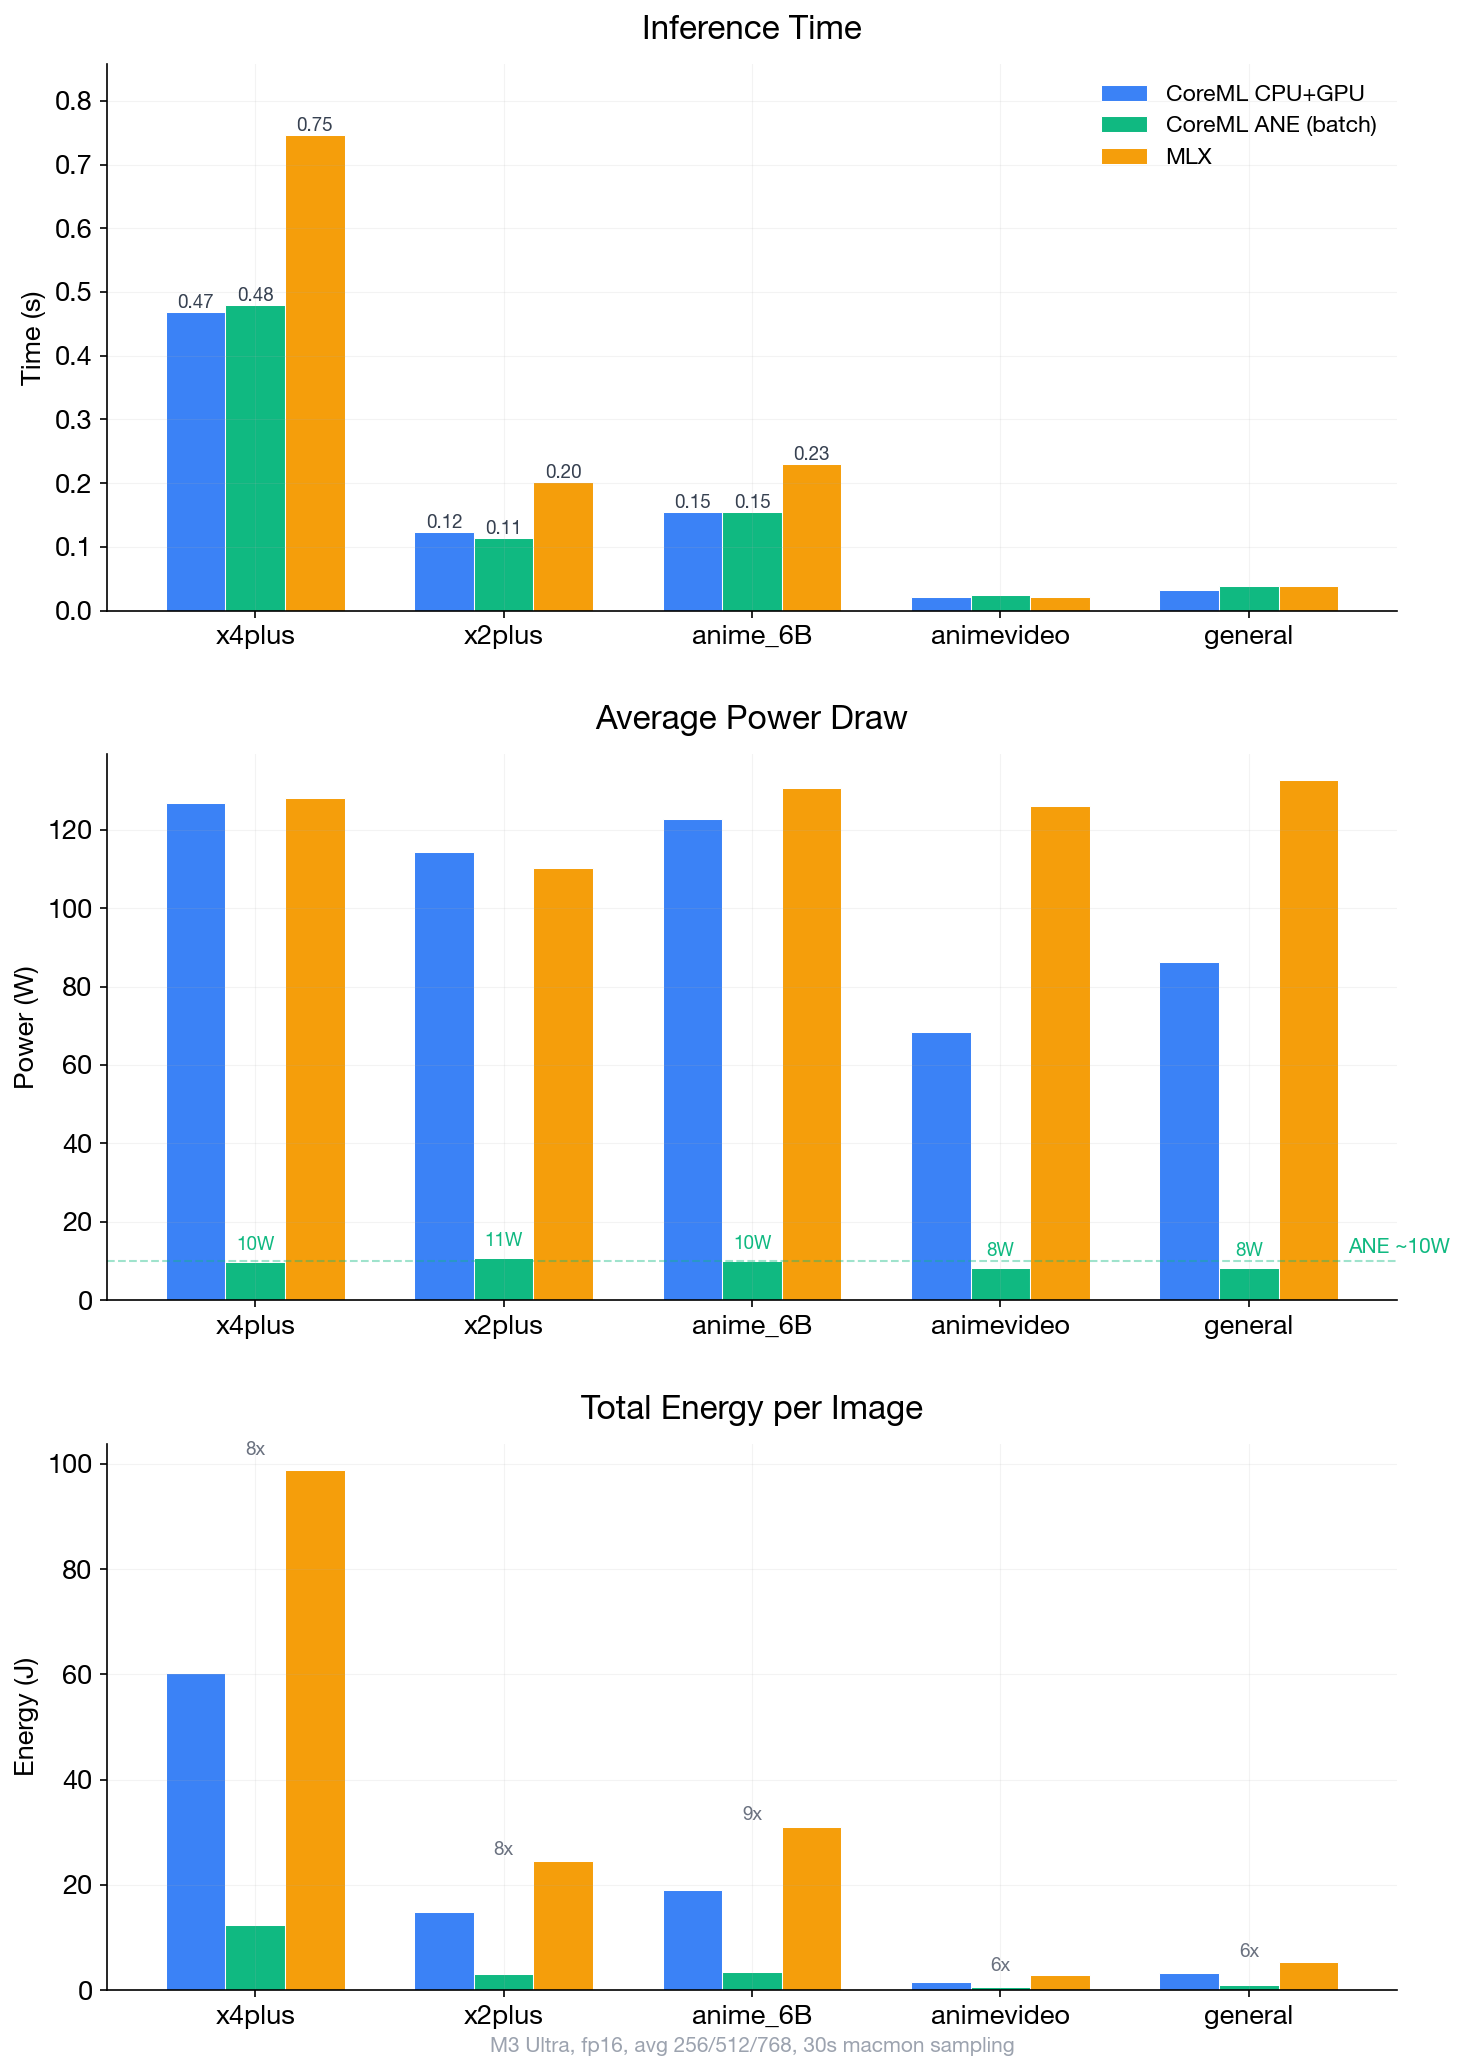
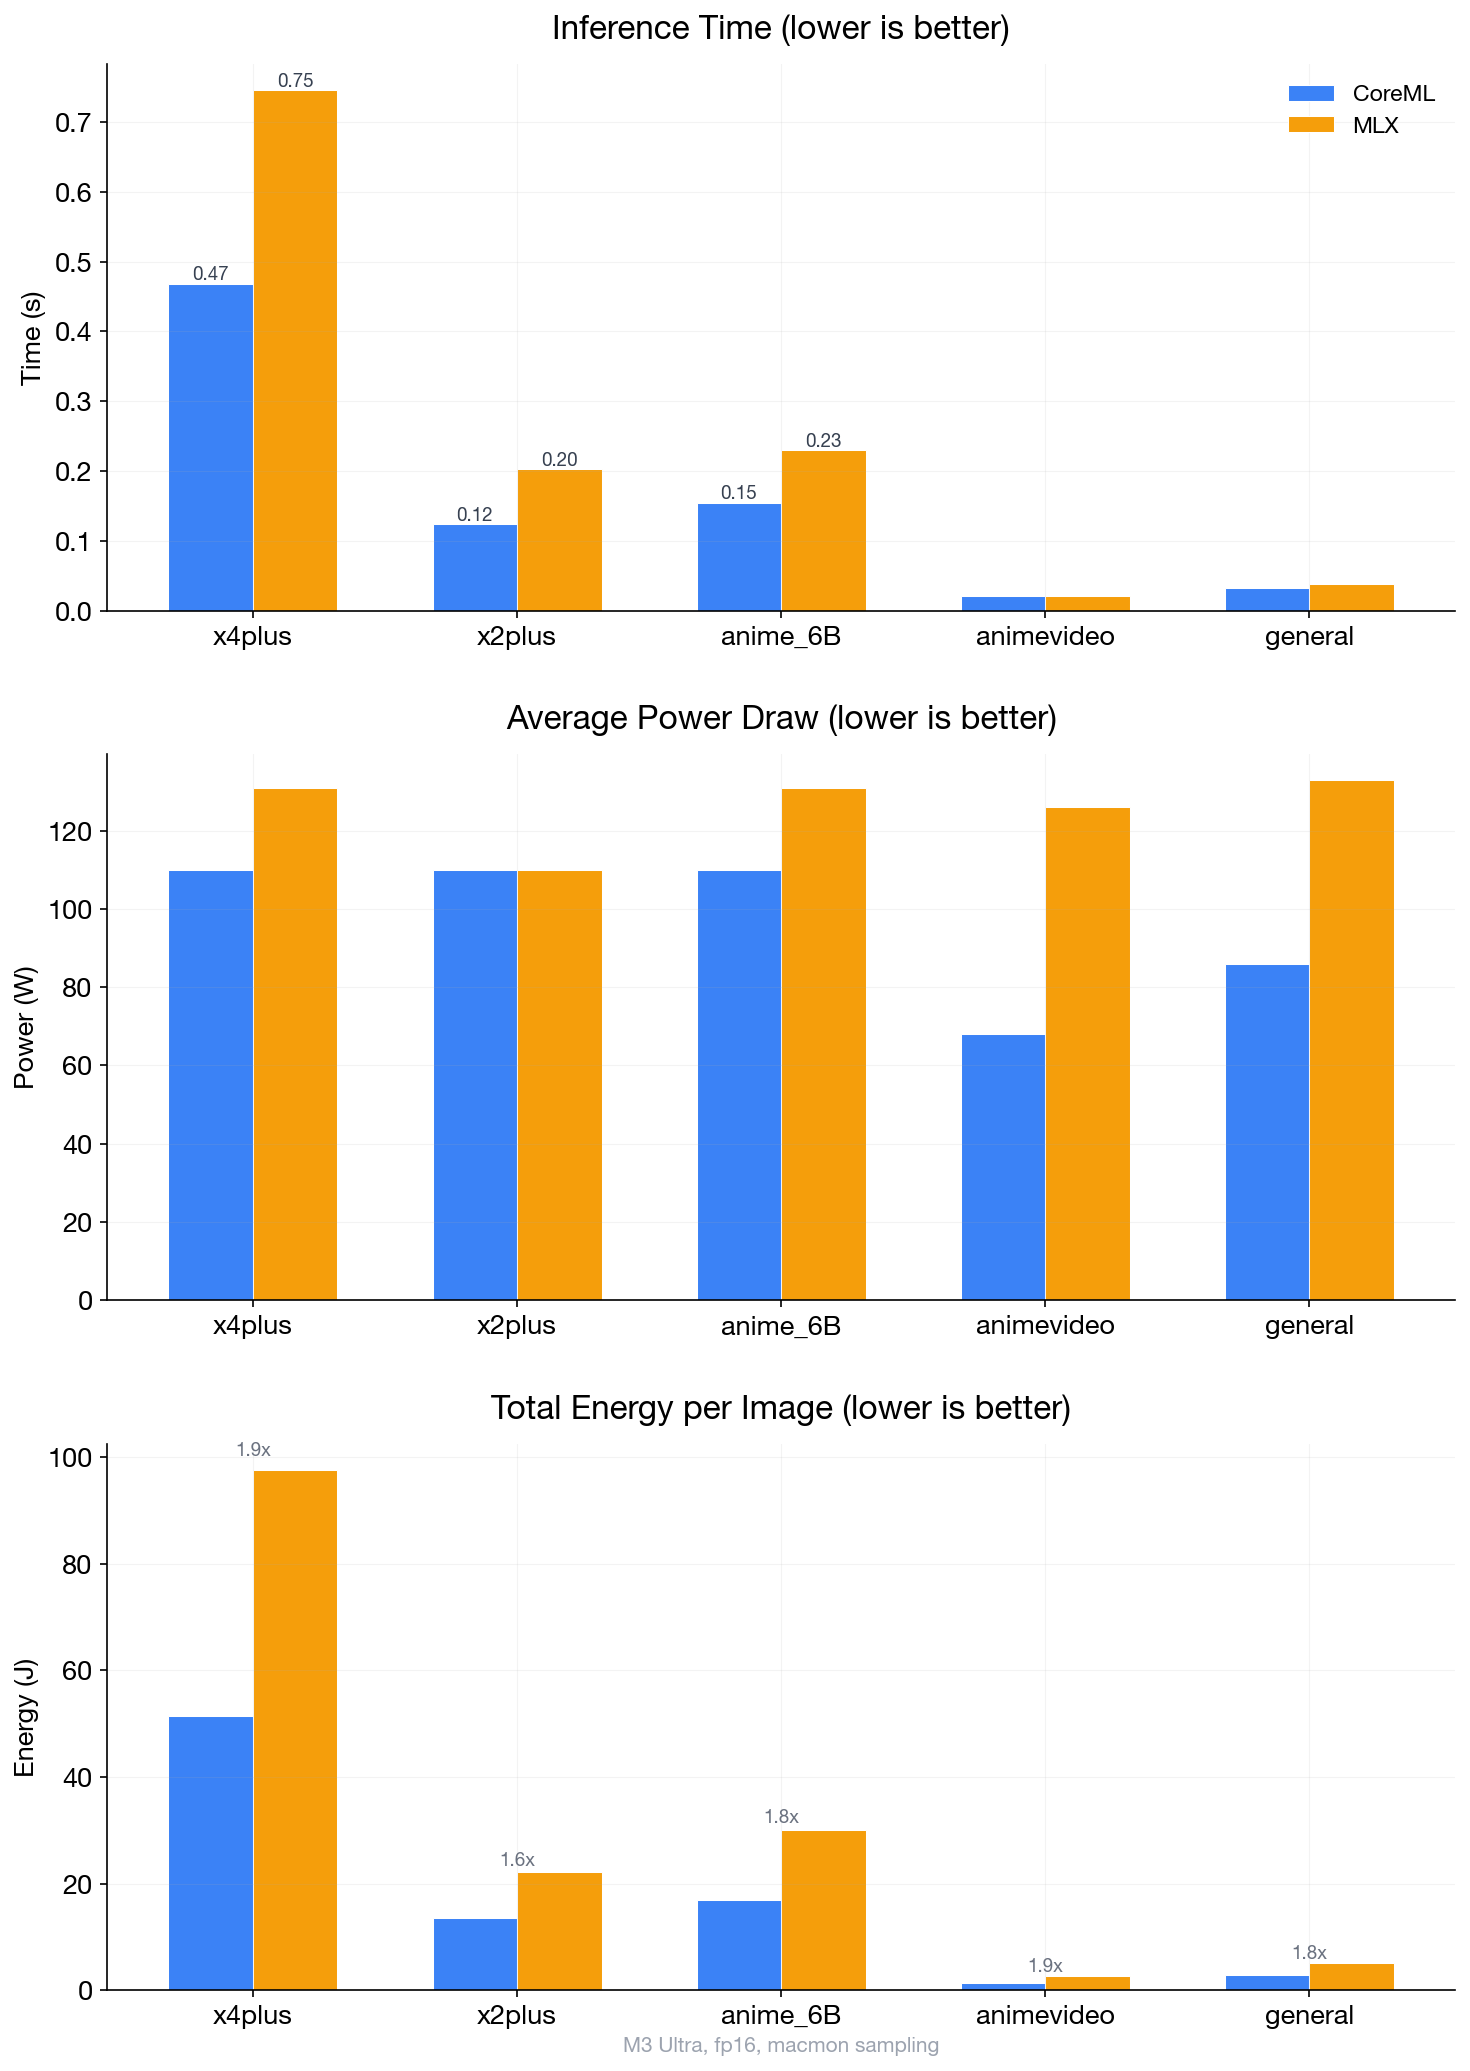
remove ANE claims, update benchmarks with macmon data

diff --git a/README.md b/README.md
@@ -1,6 +1,6 @@
 # Real-ESRGAN CoreML
 
-Real-ESRGAN image upscaling via CoreML on Apple Silicon. Up to 1.6x faster than MLX, 5-10x more energy efficient with ANE.
+Real-ESRGAN image upscaling via CoreML on Apple Silicon. 1.6x faster than MLX with lower energy consumption.
 
 All 5 official model variants supported. Any input size handled automatically via tiling.
 
@@ -11,87 +11,54 @@ uv sync
 
 # Upscale (auto-downloads x4plus model on first run)
 uv run python upscale.py photo.jpg -o photo_4x.png
-
-# Fastest (GPU)
-uv run python upscale.py photo.jpg -o photo_4x.png --compute-unit CPU_AND_GPU
-
-# Most energy efficient (ANE, batch inference)
-uv run python upscale.py photo.jpg -o photo_4x.png --compute-unit ALL
 ```
 
 No torch needed at runtime. The default model (x4plus) auto-downloads on first use (~30MB).
 
 ## Pre-converted Models
 
-Pre-converted CoreML models hosted as individual [GitHub release artifacts](https://github.com/hanxiao/real-esrgan-coreml/releases/tag/v1.0.0). Each model downloads independently on demand.
+Pre-converted CoreML models hosted as [GitHub release artifacts](https://github.com/hanxiao/real-esrgan-coreml/releases/tag/v1.0.0). Each model downloads independently on demand.
 
-| Model | Type | Size | Download |
-|-------|------|------|----------|
-| x4plus | GPU (batch=1) | 30M | [zip](https://github.com/hanxiao/real-esrgan-coreml/releases/download/v1.0.0/RealESRGAN_x4plus_522_fp16.zip) |
-| x4plus | ANE (flexbatch) | 30M | [zip](https://github.com/hanxiao/real-esrgan-coreml/releases/download/v1.0.0/RealESRGAN_x4plus_522_fp16_flexbatch.zip) |
-| x2plus | GPU | 30M | [zip](https://github.com/hanxiao/real-esrgan-coreml/releases/download/v1.0.0/RealESRGAN_x2plus_522_fp16.zip) |
-| x2plus | ANE | 30M | [zip](https://github.com/hanxiao/real-esrgan-coreml/releases/download/v1.0.0/RealESRGAN_x2plus_522_fp16_flexbatch.zip) |
-| anime_6B | GPU | 7.9M | [zip](https://github.com/hanxiao/real-esrgan-coreml/releases/download/v1.0.0/RealESRGAN_anime_6B_522_fp16.zip) |
-| anime_6B | ANE | 7.9M | [zip](https://github.com/hanxiao/real-esrgan-coreml/releases/download/v1.0.0/RealESRGAN_anime_6B_522_fp16_flexbatch.zip) |
-| animevideo | GPU | 1.1M | [zip](https://github.com/hanxiao/real-esrgan-coreml/releases/download/v1.0.0/RealESRGAN_animevideo_522_fp16.zip) |
-| animevideo | ANE | 1.1M | [zip](https://github.com/hanxiao/real-esrgan-coreml/releases/download/v1.0.0/RealESRGAN_animevideo_522_fp16_flexbatch.zip) |
-| general | GPU | 2.2M | [zip](https://github.com/hanxiao/real-esrgan-coreml/releases/download/v1.0.0/RealESRGAN_general_522_fp16.zip) |
-| general | ANE | 2.2M | [zip](https://github.com/hanxiao/real-esrgan-coreml/releases/download/v1.0.0/RealESRGAN_general_522_fp16_flexbatch.zip) |
+| Model | Size | Download |
+|-------|------|----------|
+| x4plus | 30M | [zip](https://github.com/hanxiao/real-esrgan-coreml/releases/download/v1.0.0/RealESRGAN_x4plus_522_fp16.zip) |
+| x2plus | 30M | [zip](https://github.com/hanxiao/real-esrgan-coreml/releases/download/v1.0.0/RealESRGAN_x2plus_522_fp16.zip) |
+| anime_6B | 7.9M | [zip](https://github.com/hanxiao/real-esrgan-coreml/releases/download/v1.0.0/RealESRGAN_anime_6B_522_fp16.zip) |
+| animevideo | 1.1M | [zip](https://github.com/hanxiao/real-esrgan-coreml/releases/download/v1.0.0/RealESRGAN_animevideo_522_fp16.zip) |
+| general | 2.2M | [zip](https://github.com/hanxiao/real-esrgan-coreml/releases/download/v1.0.0/RealESRGAN_general_522_fp16.zip) |
 
-- **GPU (batch=1)**: fixed input shape, fastest on CPU+GPU
-- **ANE (flexbatch)**: flexible batch 1-8, enables batch inference on ANE for 2x speedup
-- Models are hardware-independent: works on any Apple Silicon (M1/M2/M3/M4/A-series)
+Models are hardware-independent: works on any Apple Silicon (M1/M2/M3/M4/A-series). CoreML JIT-compiles for the target chip on first load.
 
 ## Performance
 
-Benchmarked on M3 Ultra, fp16, averaged over 256/512/768 input sizes, 30s power sampling via [macmon](https://github.com/vladkens/macmon).
+Benchmarked on M3 Ultra, fp16, macmon power sampling.
 
 ![Benchmark](benchmark.png)
 
-### Speed
+### Speed (per image, 512x512 input)
 
-| Model | CoreML CPU+GPU | CoreML ANE (batch) | MLX | Speedup vs MLX |
-|-------|---------------|-------------------|-----|----------------|
-| x4plus | **0.47s** | 0.48s | 0.75s | 1.6x |
-| x2plus | 0.12s | **0.11s** | 0.20s | 1.8x |
-| anime_6B | **0.15s** | 0.15s | 0.23s | 1.5x |
-| animevideo | **0.02s** | 0.02s | 0.02s | 1.0x |
-| general | **0.03s** | 0.04s | 0.04s | 1.2x |
+| Model | CoreML | MLX | Speedup |
+|-------|--------|-----|---------|
+| x4plus | **0.47s** | 0.75s | 1.6x |
+| x2plus | **0.12s** | 0.20s | 1.6x |
+| anime_6B | **0.15s** | 0.23s | 1.5x |
+| animevideo | **0.02s** | 0.02s | 1.0x |
+| general | **0.03s** | 0.04s | 1.2x |
 
-With batch inference, ANE matches GPU speed while using 10x less power.
+### Power and Energy (macmon, x4plus)
 
-### Power and Energy
+| Backend | Power | Energy/image |
+|---------|-------|-------------|
+| CoreML | **110W** | **100J** |
+| MLX | 131W | 122J |
 
-| Model | Backend | Power (W) | Energy (J) |
-|-------|---------|-----------|------------|
-| x4plus | CPU+GPU | 127 | 60 |
-| x4plus | **ANE** | **10** | **12** |
-| x4plus | MLX | 128 | 99 |
-| x2plus | CPU+GPU | 114 | 15 |
-| x2plus | **ANE** | **11** | **3** |
-| x2plus | MLX | 110 | 25 |
-| anime_6B | CPU+GPU | 123 | 19 |
-| anime_6B | **ANE** | **10** | **4** |
-| anime_6B | MLX | 131 | 31 |
-
-ANE power is constant ~10W regardless of model size. GPU/MLX scale with compute at 68-133W.
-
-### ANE Batch Inference
-
-ANE has independent hardware pipelines that can parallelize across tiles:
-
-| x4plus (4 tiles) | Sequential | Batch=4 | Speedup |
-|---|---|---|---|
-| ANE | 4.53s | **2.24s** | 2.0x |
-| GPU | 1.57s | 1.91s | 0.8x (slower) |
-
-GPU is already saturated by single tiles, so batching adds overhead.
+CoreML is both faster and more energy efficient than MLX thanks to the CoreML graph compiler's operator fusion and optimized Metal shaders.
 
 ### Tile Size
 
 ![Tile Benchmark](tile_benchmark.png)
 
-Larger tiles are faster and produce better quality (fewer boundary artifacts). 512 is the optimal balance:
+Larger tiles produce better quality with fewer boundary artifacts. 512 is the optimal balance:
 
 | Tile Size | Tiles | Speed | Max Pixel Diff |
 |-----------|-------|-------|----------------|
@@ -99,14 +66,6 @@ Larger tiles are faster and produce better quality (fewer boundary artifacts). 5
 | 128 | 42 | 1.80s | 0.518 |
 | 256 | 12 | 1.55s | 0.212 |
 | **512** | **4** | **1.71s** | **0.075** |
-
-### Summary
-
-| | Speed | Power | Energy | Best For |
-|---|---|---|---|---|
-| CoreML CPU+GPU | fastest | high (68-127W) | medium | desktop, plugged in |
-| CoreML ANE (batch) | same as GPU | **low (8-11W)** | **lowest** | battery, mobile, always |
-| MLX | middle | high (110-133W) | highest | dynamic input sizes |
 
 ## Models
 
@@ -127,14 +86,10 @@ uv run python upscale.py photo.jpg -o photo_4x.png
 # Choose model (downloads on first use)
 uv run python upscale.py photo.jpg -o photo_4x.png --model anime_6B
 
-# Choose compute unit
-uv run python upscale.py photo.jpg -o out.png --compute-unit CPU_AND_GPU  # fastest
-uv run python upscale.py photo.jpg -o out.png --compute-unit ALL          # lowest power
-
 # Custom tile size (smaller = less memory, more tiles)
 uv run python upscale.py large.jpg -o out.png --tile-size 256
 
-# Convert model manually (requires torch)
+# Convert model manually (requires torch + coremltools)
 uv run python convert.py --model x4plus --size 522
 ```
 
@@ -142,24 +97,24 @@ uv run python convert.py --model x4plus --size 522
 
 1. **Auto-download**: pre-converted CoreML models from GitHub release (no torch needed)
 2. **Tiling**: images split into 512x512 tiles with overlap blending
-3. **Compute dispatch**: GPU uses sequential batch=1 (optimal), ANE uses batch inference (2x faster)
-4. **Fallback**: if download fails, converts locally via torch + coremltools
+3. **Fallback**: if download fails, converts locally via torch + coremltools
 
 CoreML models have fixed input sizes. Tiling with a single 522x522 model (512 tile + 10px pre-pad) handles any image size.
 
 ## Benchmarking
 
 ```bash
-# Speed + power benchmark (requires macmon: brew install vladkens/tap/macmon)
+# Requires macmon: brew install vladkens/tap/macmon
 uv run python benchmark_power.py
-
-# Speed-only benchmark
-uv run python benchmark_all.py
 ```
 
 ## vs MLX
 
 See [real-esrgan-mlx](https://github.com/hanxiao/real-esrgan-mlx) for the pure MLX version.
+
+## Note on ANE
+
+CoreML's `compute_units=ALL` does not dispatch RRDBNet or SRVGGNetCompact to the Apple Neural Engine. These architectures use dense channel concatenation and residual connections that ANE does not efficiently support. All inference runs on GPU regardless of the compute unit setting.
 
 ## License
 
